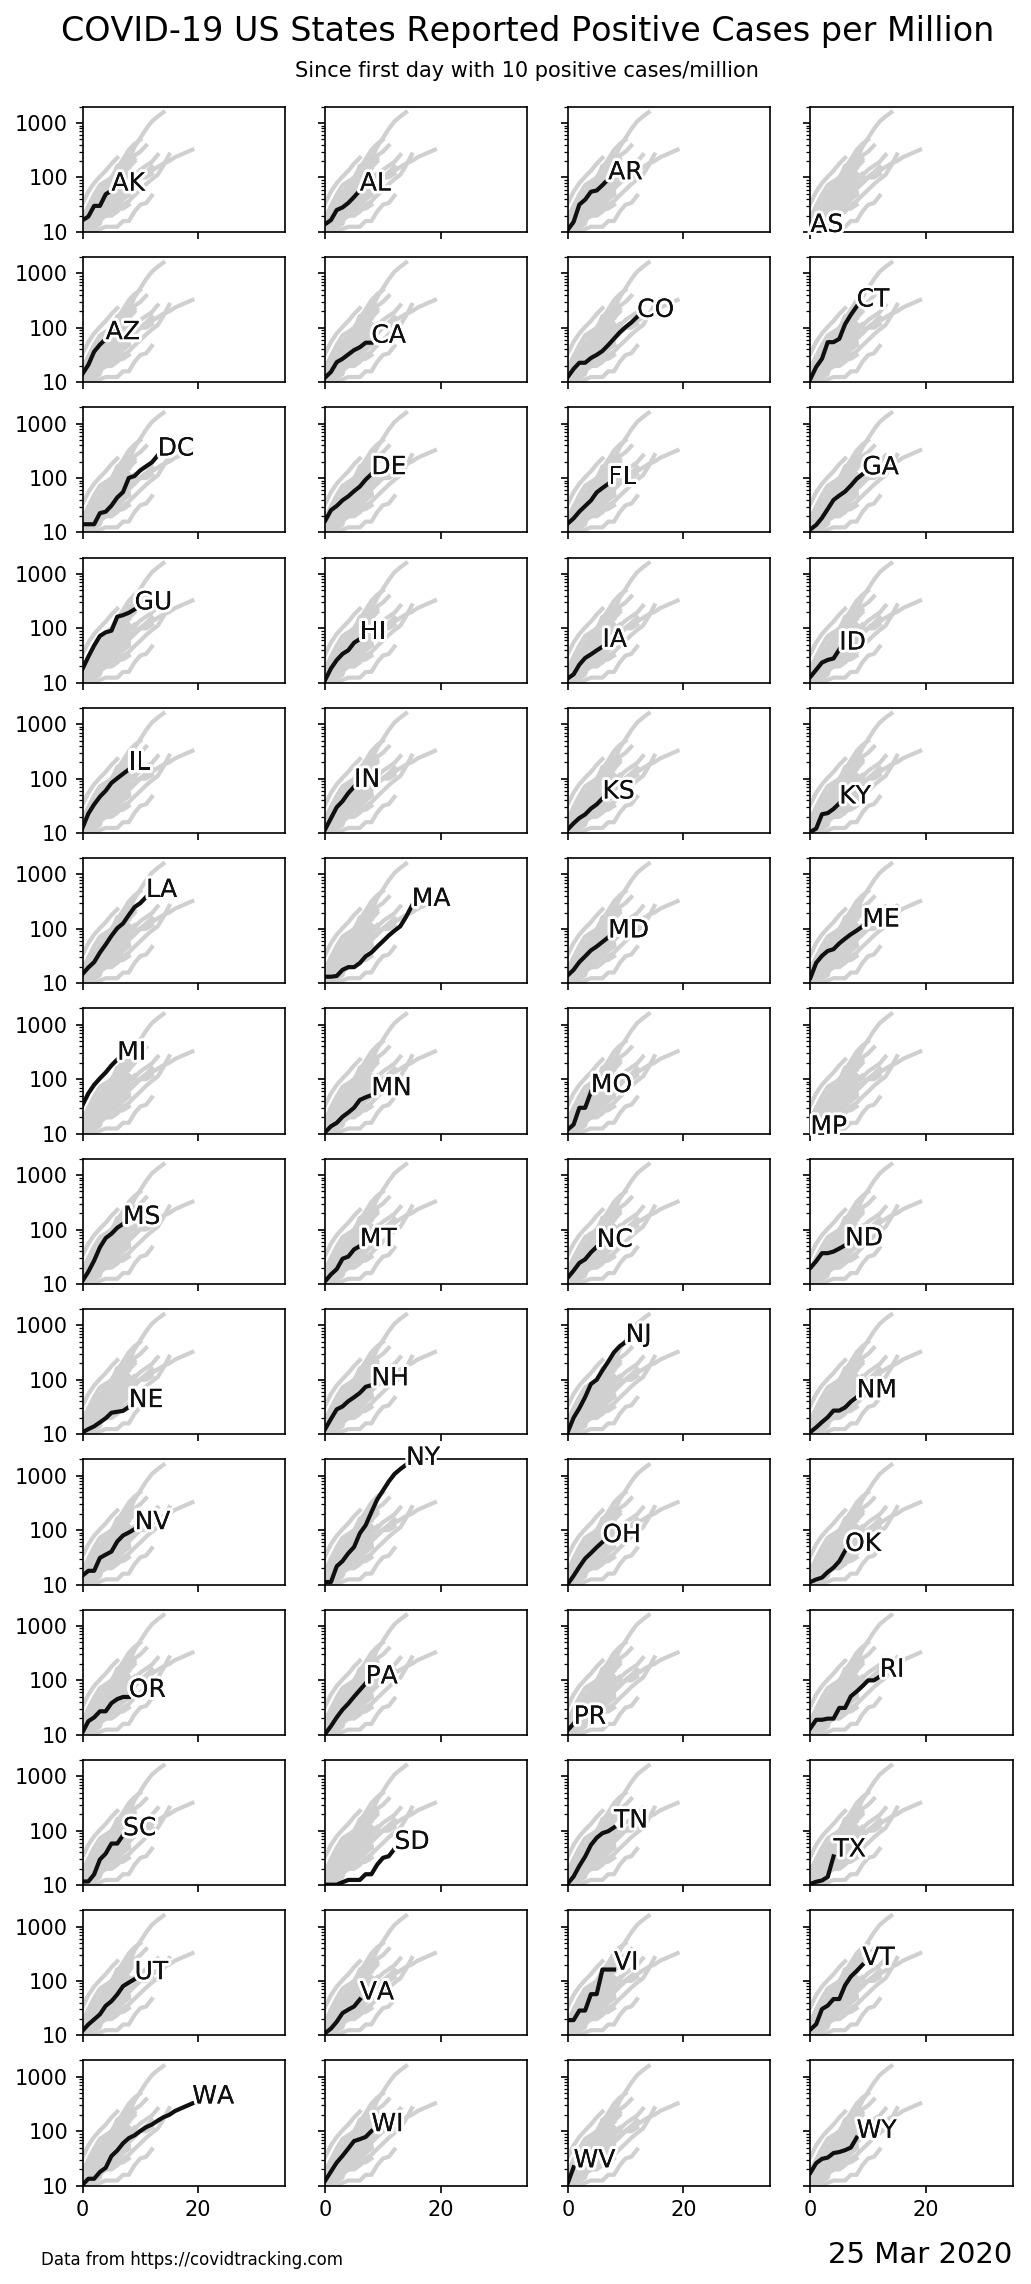
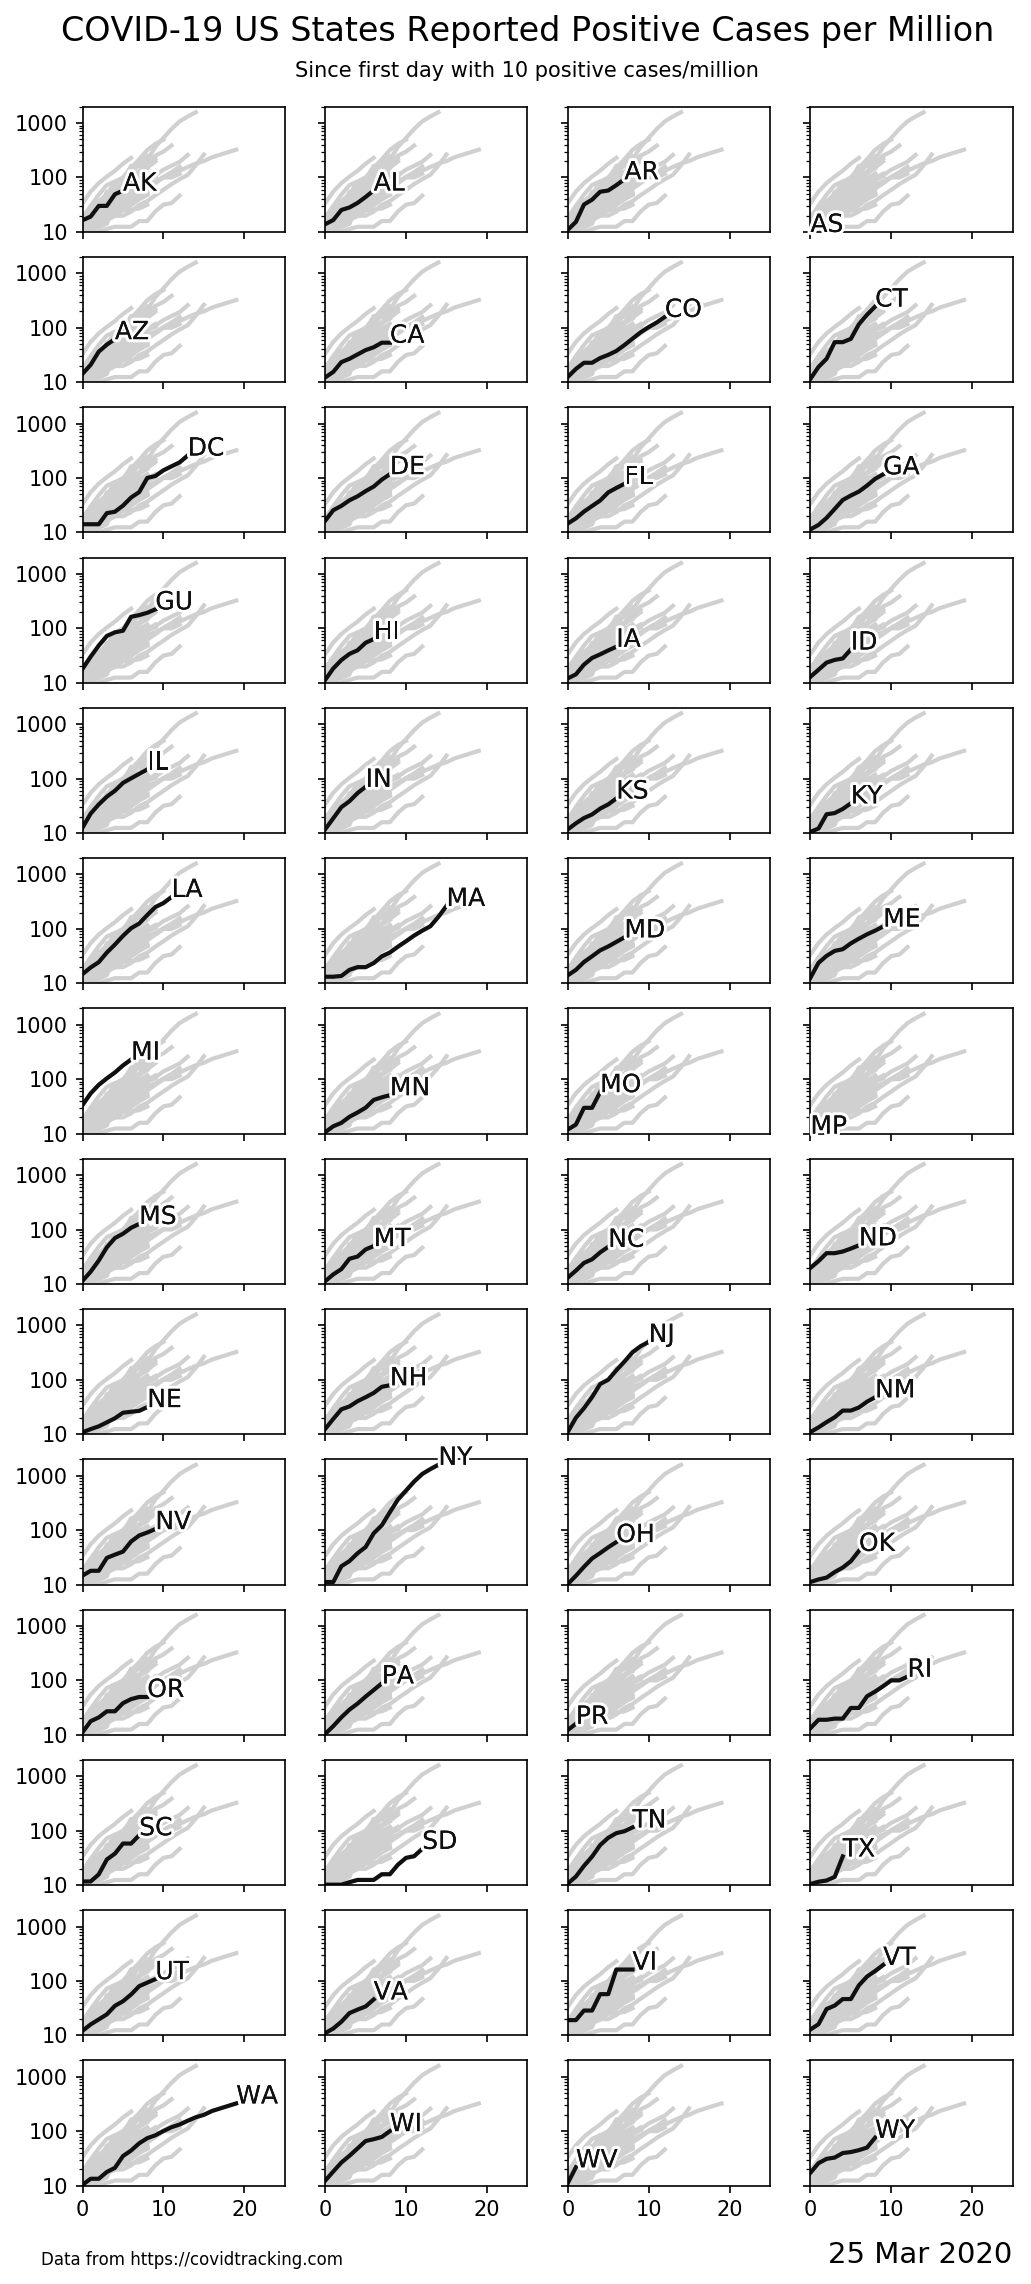
Re-gen combined with reduced x axis max

diff --git a/plot.py b/plot.py
@@ -27,7 +27,8 @@ class C19Tests:
 	y_max = 1000000
 
 class C19TestsNorm:
-	num_days = 30
+	num_days = 35
+	num_days_combined = 25
 	y_min = 10
 	y_max = 10000
 
@@ -39,6 +40,7 @@ class C19Cases:
 
 class C19CasesNorm:
 	num_days = 35
+	num_days_combined = 25
 	y_min = 10
 	y_max = 2000
 
@@ -47,12 +49,13 @@ class C19CasesNorm:
 
 # Graph parameters for Reported Deaths
 class C19Deaths:
-	num_days = 30
+	num_days = 35
 	y_min = 10
 	y_max = 10000
 
 class C19DeathsNorm:
 	num_days = 25
+	num_days_combined = 20
 	y_min = 1
 	y_max = 150
 
@@ -384,6 +387,7 @@ class CovidCases:
 				size=14, ha='right', va='bottom')
 	
 	def generate_states_combined_tests(self):
+		print '  combined tests'
 		plt.close('all')
 		fig, axs = plt.subplots(14, 4, sharex=True, sharey=True)
 
@@ -407,7 +411,7 @@ class CovidCases:
 
 		for s in USInfo.states:
 			ax = state_ax[s]
-			ax.axis([0, C19TestsNorm.num_days, C19TestsNorm.y_min, C19TestsNorm.y_max])
+			ax.axis([0, C19TestsNorm.num_days_combined, C19TestsNorm.y_min, C19TestsNorm.y_max])
 			self.format_axes(ax, True)
 			ax.set_yticks([10,100,1000,10000])
 			
@@ -422,6 +426,7 @@ class CovidCases:
 		plt.savefig('tests-norm/states.png', dpi=150, bbox_inches='tight')
 
 	def generate_states_combined_cases(self):
+		print '  combined cases'
 		plt.close('all')
 		fig, axs = plt.subplots(14, 4, sharex=True, sharey=True)
 
@@ -443,7 +448,7 @@ class CovidCases:
 		for s in USInfo.states:
 			ax = state_ax[s]
 			#ax.set_title(s)
-			ax.axis([0, C19CasesNorm.num_days, C19CasesNorm.y_min, C19CasesNorm.y_max])
+			ax.axis([0, C19CasesNorm.num_days_combined, C19CasesNorm.y_min, C19CasesNorm.y_max])
 			self.format_axes(ax, True)
 			# Plot data for all the states in light gray for reference.
 			for s2 in USInfo.states:
@@ -456,6 +461,7 @@ class CovidCases:
 		plt.savefig('cases-norm/states.png', dpi=150, bbox_inches='tight')
 
 	def generate_states_combined_deaths(self):
+		print '  combined deaths'
 		plt.close('all')
 		fig, axs = plt.subplots(14, 4, sharex=True, sharey=True)
 
@@ -477,7 +483,7 @@ class CovidCases:
 		for s in USInfo.states:
 			ax = state_ax[s]
 			#ax.set_title(s)
-			ax.axis([0, C19DeathsNorm.num_days, C19DeathsNorm.y_min, C19DeathsNorm.y_max])
+			ax.axis([0, C19DeathsNorm.num_days_combined, C19DeathsNorm.y_min, C19DeathsNorm.y_max])
 			self.format_axes(ax, True)
 			# Plot data for all the states in light gray for reference.
 			for s2 in USInfo.states:
